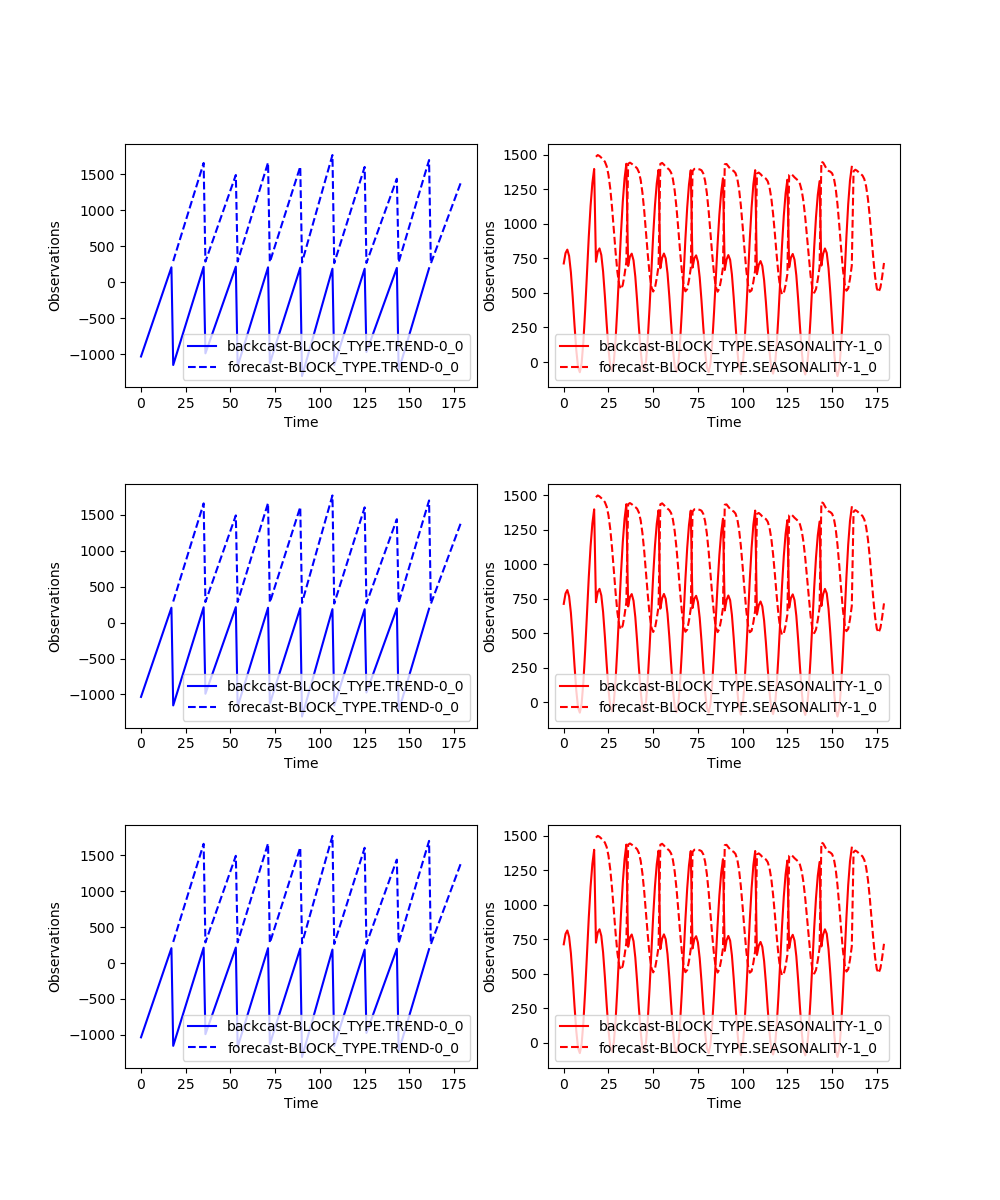
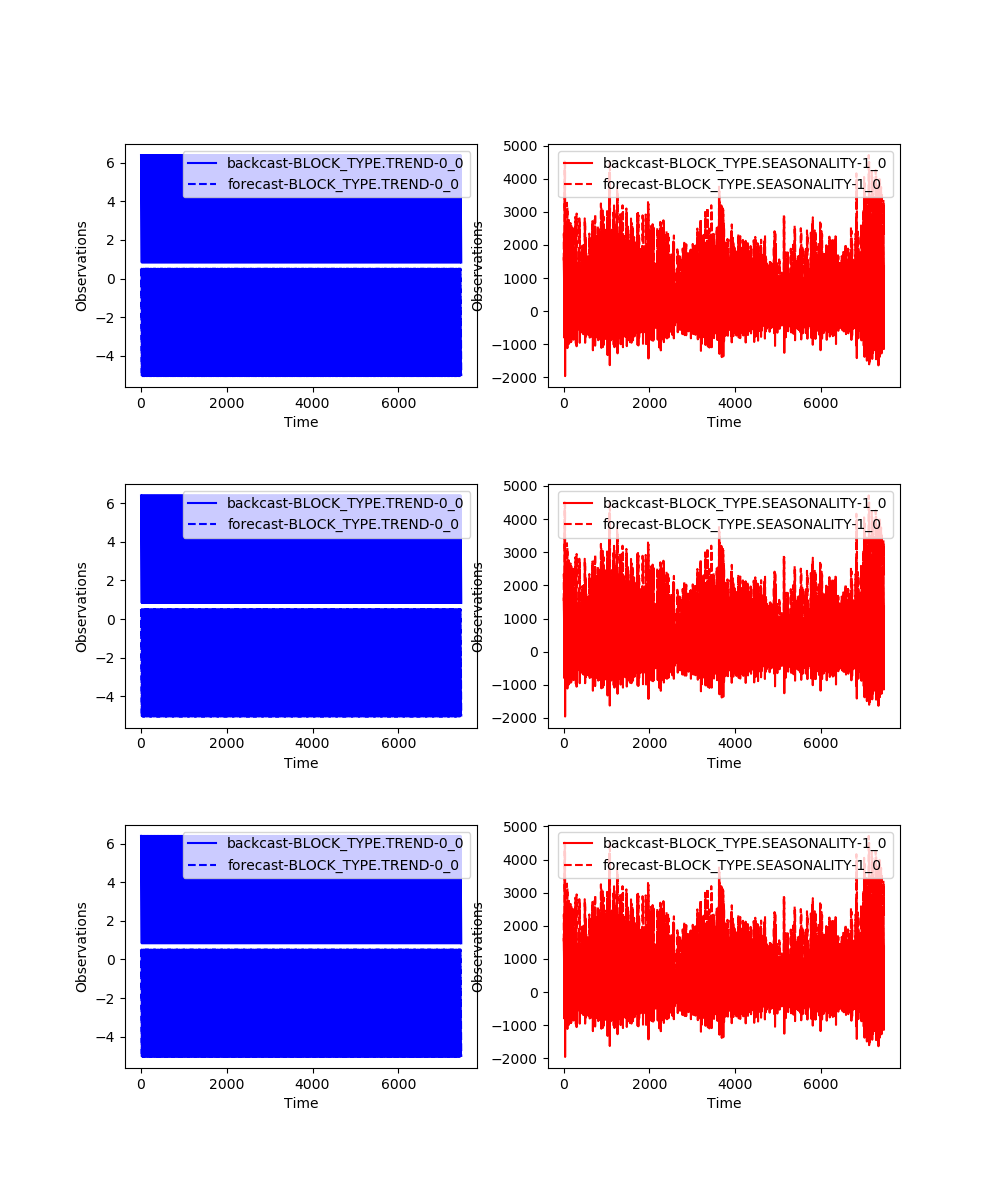
Added M1 for nbeats

diff --git a/ts/n_beats/config.py b/ts/n_beats/config.py
@@ -51,8 +51,8 @@ def get_config(interval):
         config.update({
             "stack_types": [BLOCK_TYPE.TREND, BLOCK_TYPE.SEASONALITY],
             "thetas_dims": [2, 8],
-            "nb_blocks_per_stack": 4,
-            "hidden_layer_units": 128,
+            "nb_blocks_per_stack": 3,
+            "hidden_layer_units": 512,
             "share_weights_in_stack": True,
             "chop_val": 72,
             "variable": "Monthly",
@@ -63,7 +63,7 @@ def get_config(interval):
             "min_learning_rate": 0.0001,
             "lr_ratio": sqrt(10),
             "lr_tolerance_multip": 1.005,
-            "min_epochs_before_changing_lrate": 2,
+            "min_epochs_before_changing_lrate": 3,
             "lr_anneal_rate": 0.5,
             "lr_anneal_step": 5,
             "dropout": 0.2,

diff --git a/ts/utils/helper_funcs.py b/ts/utils/helper_funcs.py
@@ -254,7 +254,7 @@ def plot_stacks(run_id, path, model):
             f_legend_str = ("forecast-{}-{}".format(block.block_type, block.id))
             ax.legend([b_legend_str, f_legend_str], loc="best")
 
-    plt.savefig(path / ("stack_" + run_id + ".png"))
+    plt.savefig(path / "stack.png")
 
     plt.tight_layout()
     sns.despine()
@@ -268,7 +268,7 @@ def plot_block_ts(ax, block):
         for i in range(backcasts.shape[0]):
             y_backcast_values.extend(backcasts[i, :].tolist())
     else:
-          y_backcast_values.extend(backcasts.tolist())
+        y_backcast_values.extend(backcasts.tolist())
     y_forecast_values = []
     forecasts = (block.forecasts[-1]).squeeze().cpu().detach().numpy()
     if forecasts.ndim > 1:
